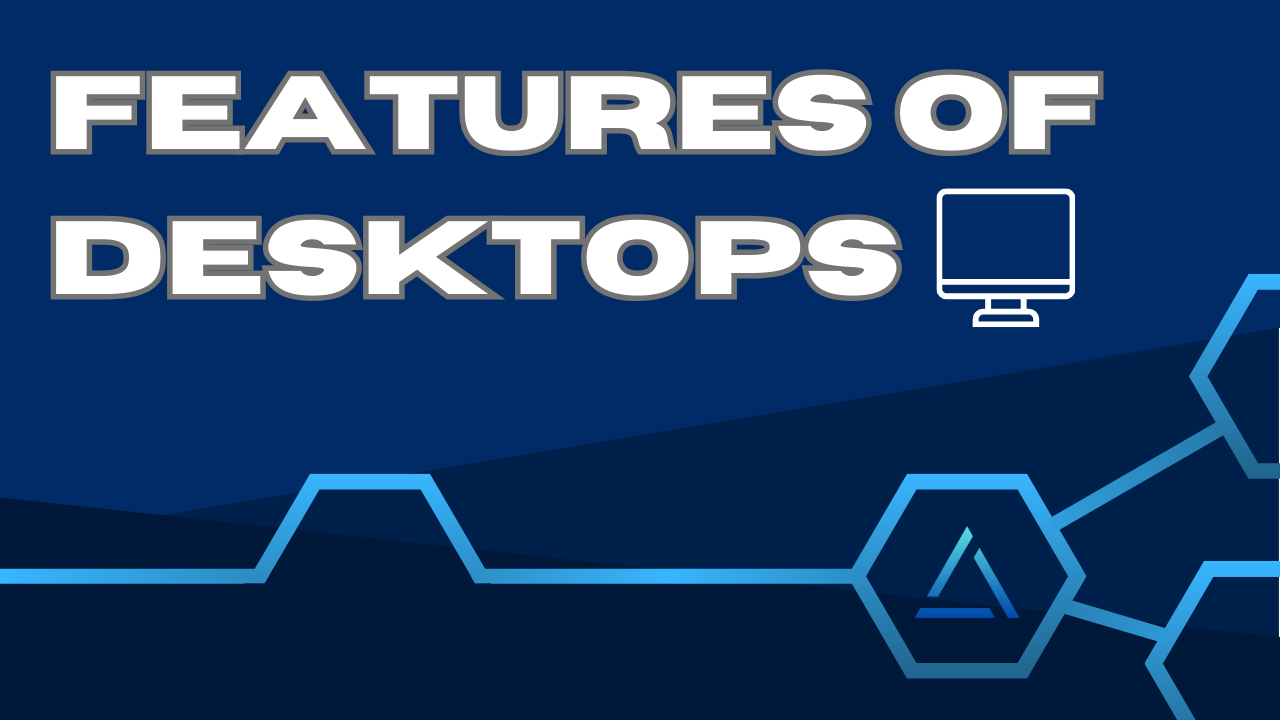
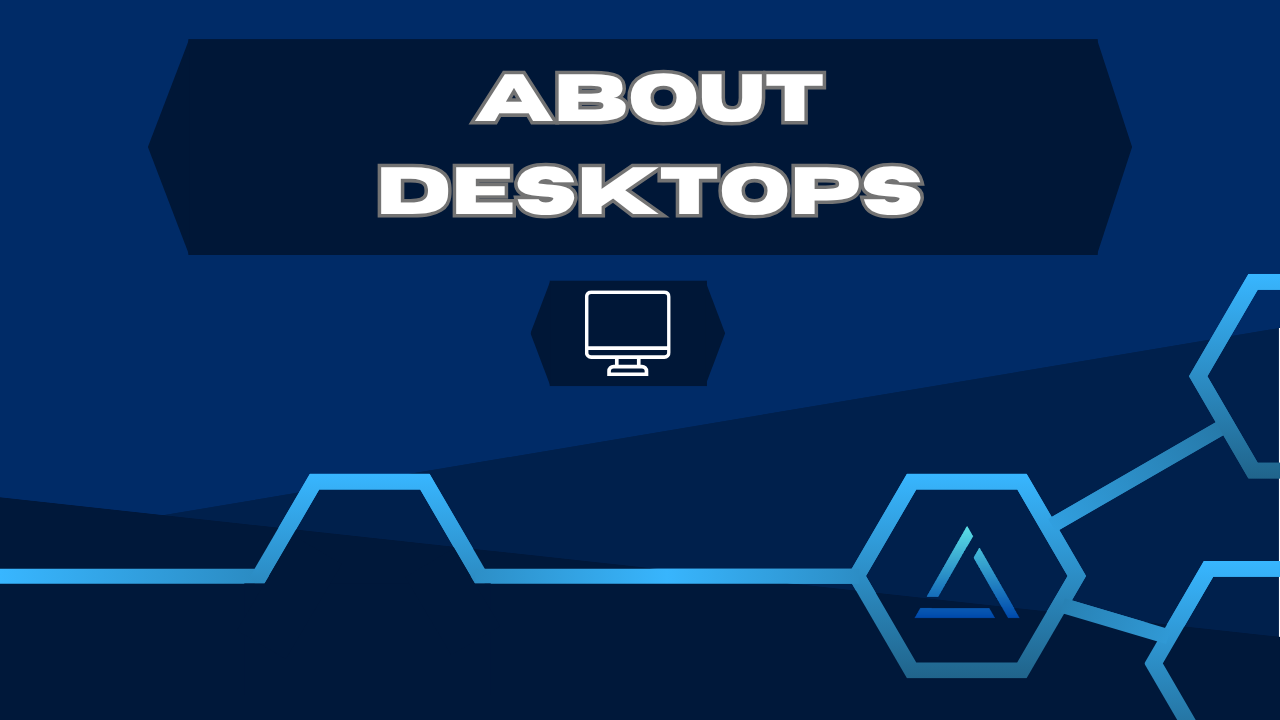
added login page #1

Changed region(s): [[0.0312, 0.0306, 0.9062, 0.55]]

diff --git a/templates/login.html b/templates/login.html
@@ -1,0 +1,41 @@
+{% extends 'layout.html' %}{% block content %}
+<form>
+  <div class="d-flex justify-content-center align-items-center flex-column">
+    <form class="w-50">
+      <div class="d-flex flex-column w-50">
+        <div class="form-group d-flex gap-3">
+          <div class="flex-fill">
+            <label for="exampleInputEmail1">Email address</label>
+            <input
+              type="email"
+              class="form-control"
+              id="exampleInputEmail1"
+              aria-describedby="emailHelp"
+              placeholder="Enter email"
+            />
+            <small id="emailHelp" class="form-text text-muted">
+              We'll never share your email with anyone else.
+            </small>
+          </div>
+          <div class="flex-fill">
+            <label for="exampleInputPassword1">Password</label>
+            <input
+              type="password"
+              class="form-control"
+              id="exampleInputPassword1"
+              placeholder="Password"
+            />
+          </div>
+        </div>
+        <div class="form-group form-check">
+          <input type="checkbox" class="form-check-input" id="exampleCheck1" />
+          <label class="form-check-label" for="exampleCheck1"
+            >Check me out</label
+          >
+        </div>
+        <button type="submit" class="btn btn-primary">Submit</button>
+      </div>
+    </form>
+    {% endblock %}
+  </div>
+</form>

diff --git a/templates/partials/menu.html b/templates/partials/menu.html
@@ -55,6 +55,13 @@
           <a class="nav-link disabled" aria-disabled="true">Disabled</a>
         </li>
       </ul>
+      <a
+        class="btn btn-outline-light text-light me-2"
+        href="login.html"
+        role="button"
+      >
+        Login
+      </a>
       <form class="d-flex" role="search">
         <input
           class="form-control me-2"
@@ -62,7 +69,9 @@
           placeholder="Search"
           aria-label="Search"
         />
-        <button class="btn btn-outline-info" type="submit">🔎</button>
+        <button type="button" class="btn btn-outline-light" type="submit">
+          🔎
+        </button>
       </form>
     </div>
   </div>

diff --git a/main.py b/main.py
@@ -7,10 +7,10 @@ app = Flask(__name__)
 @app.route('/')
 def index():
     card_data = (
-        ("Features Of Laptops", "Learn about the features laptops have to offer", "Learn More", "static/images/Stuff/1.png"),
-        ("Features Of Desktops", "Learn about the features desktops have to offer", "Learn More", "static/images/Stuff/2.png"),
-        ("Examples Of Laptops", "Find example laptops", "Learn More", "static/images/Stuff/3.png"),
-        ("Examples Of Desktops", "Find example desktops", "Learn More", "static/images/Stuff/4.png"),
+        ("About Laptops", "Learn about the features laptops have to offer", "Learn More", "static/images/Stuff/1.png"),
+        ("About Desktops", "Learn about the features desktops have to offer", "Learn More", "static/images/Stuff/2.png"),
+        ("Quality Laptops", "Find example laptops", "Learn More", "static/images/Stuff/3.png"),
+        ("Quality Desktops", "Find example desktops", "Learn More", "static/images/Stuff/4.png"),
         ("Which Is Better (For Students)", "Determine which is better for school", "Learn More", "static/images/Stuff/5.png"),
         ("Which Is Better (For Students)", "Determine which is better for the workplace", "Learn More", "static/images/Stuff/6.png"),
     )
@@ -19,6 +19,10 @@ def index():
 @app.route('/contact.html')
 def contact():
     return render_template("contact.html"), 200
+
+@app.route('/login.html')
+def login():
+    return render_template("login.html"), 200
 
 if __name__ == '__main__':
     app.run(debug=True)
